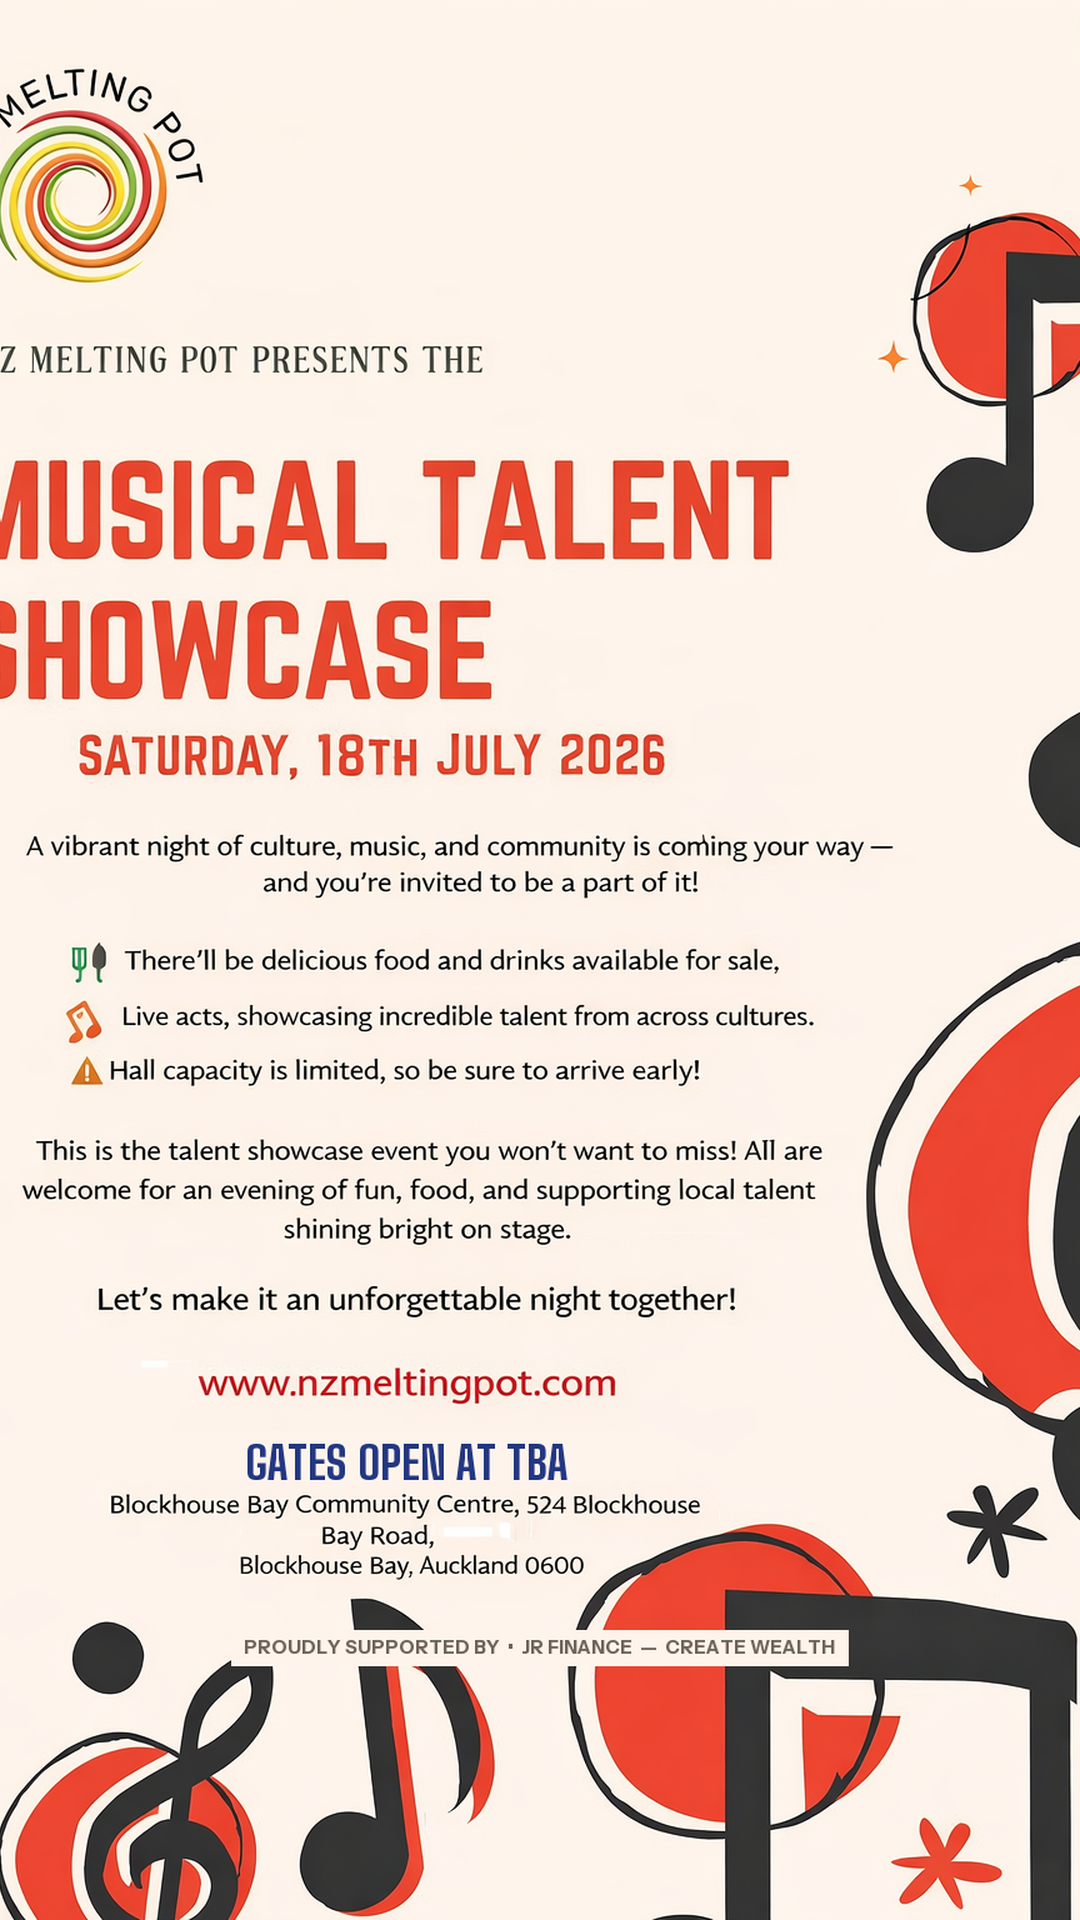
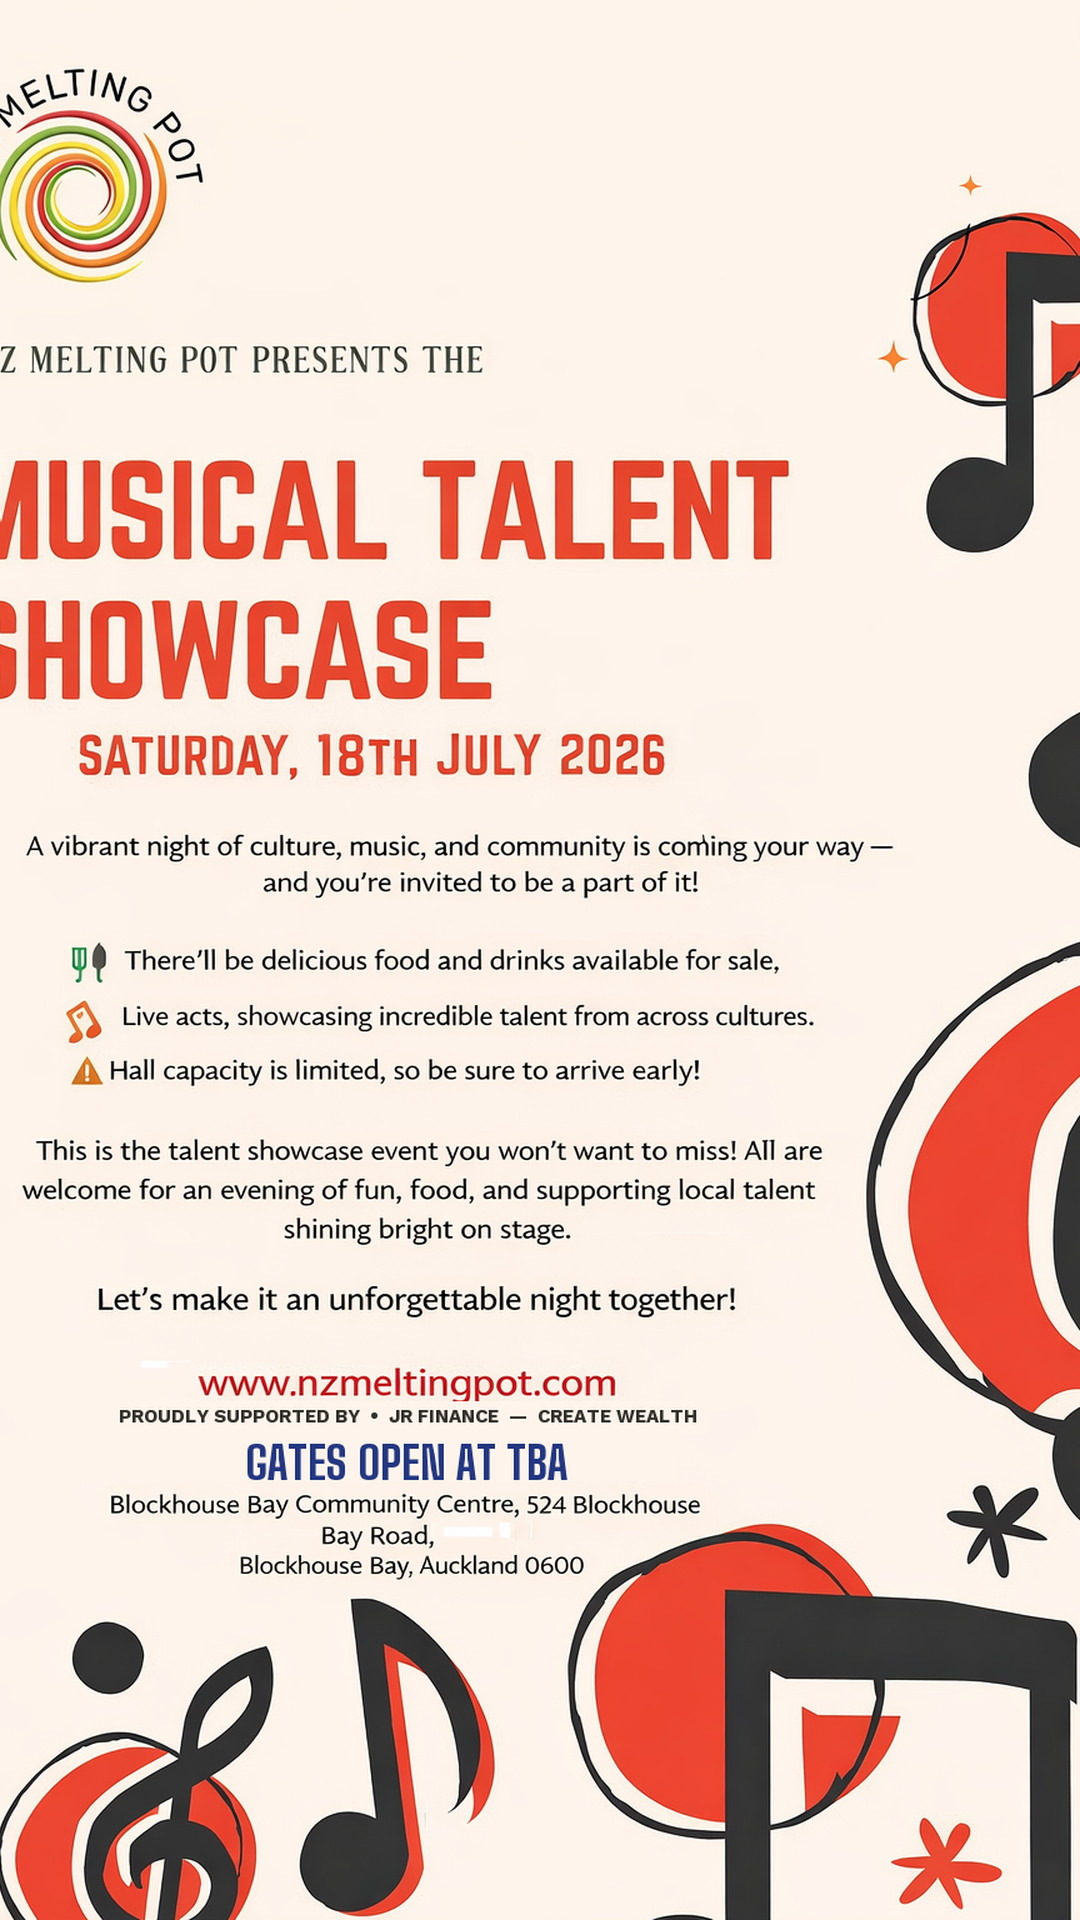
Move JR Finance sponsor credit on Talent Showcase poster
Relocate the sponsor line from the bottom of the poster to just below
the website URL, centred under the URL (not the page) and rendered in
WorkSans-Bold for stronger weight.

diff --git a/public/posters/generate-poster.py b/public/posters/generate-poster.py
@@ -64,24 +64,26 @@ def apply_edits(img):
     d.text((x_pos, Y(1148)), new_text, fill=BLUE, font=f_gate)
 
     # --- 2. Sponsor credit ---
-    # Single small line just below the address. We mask only behind the
-    # text itself (a tight "pill" sized to the text width), not the full
-    # poster width, so we don't introduce a visible cream strip across
-    # the bottom decorations.
-    f_sp = font("InstrumentSans-Bold.ttf", S(15))
+    # Small bold line tucked just below "www.nzmeltingpot.com" and above
+    # the "GATES OPEN" line. Centred under the URL text (URL text spans
+    # x=241-571 in the original image; centre x≈406), not under the page
+    # centre, so it sits visually beneath the URL rather than off to the
+    # right of it.
+    f_sp = font("WorkSans-Bold.ttf", S(15))
     sp_text = "PROUDLY SUPPORTED BY  •  JR FINANCE  —  CREATE WEALTH"
     sw = d.textlength(sp_text, font=f_sp)
-    sp_x = (W - sw) // 2
-    sp_y = Y(1308)
-    pad_x = S(10)
-    pad_y = S(4)
-    text_h = S(20)
+    url_cx = X(406)
+    sp_x = url_cx - sw // 2
+    sp_y = Y(1124)
+    pad_x = S(8)
+    pad_y = S(3)
+    text_h = S(19)
     d.rectangle(
         (sp_x - pad_x, sp_y - pad_y,
          sp_x + sw + pad_x, sp_y + text_h + pad_y),
         fill=CREAM,
     )
-    d.text((sp_x, sp_y), sp_text, fill=MUTED, font=f_sp)
+    d.text((sp_x, sp_y), sp_text, fill=DARK, font=f_sp)
 
 
 def get_main_image():